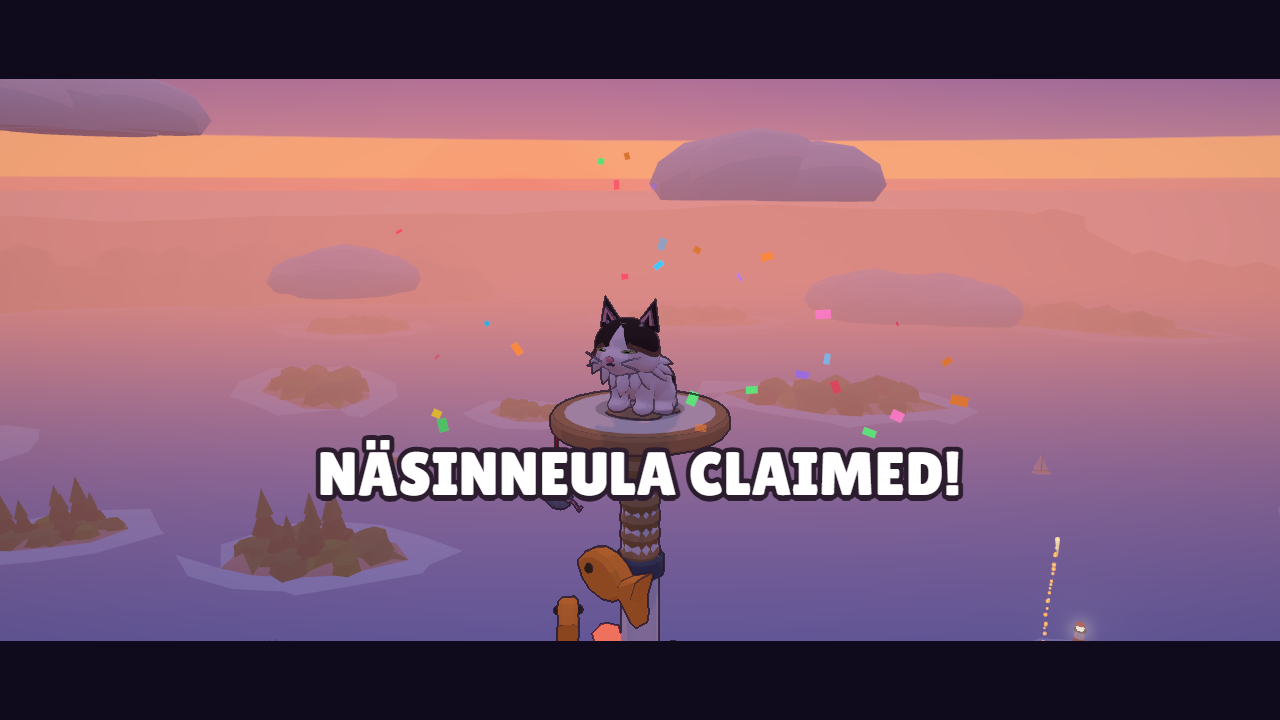
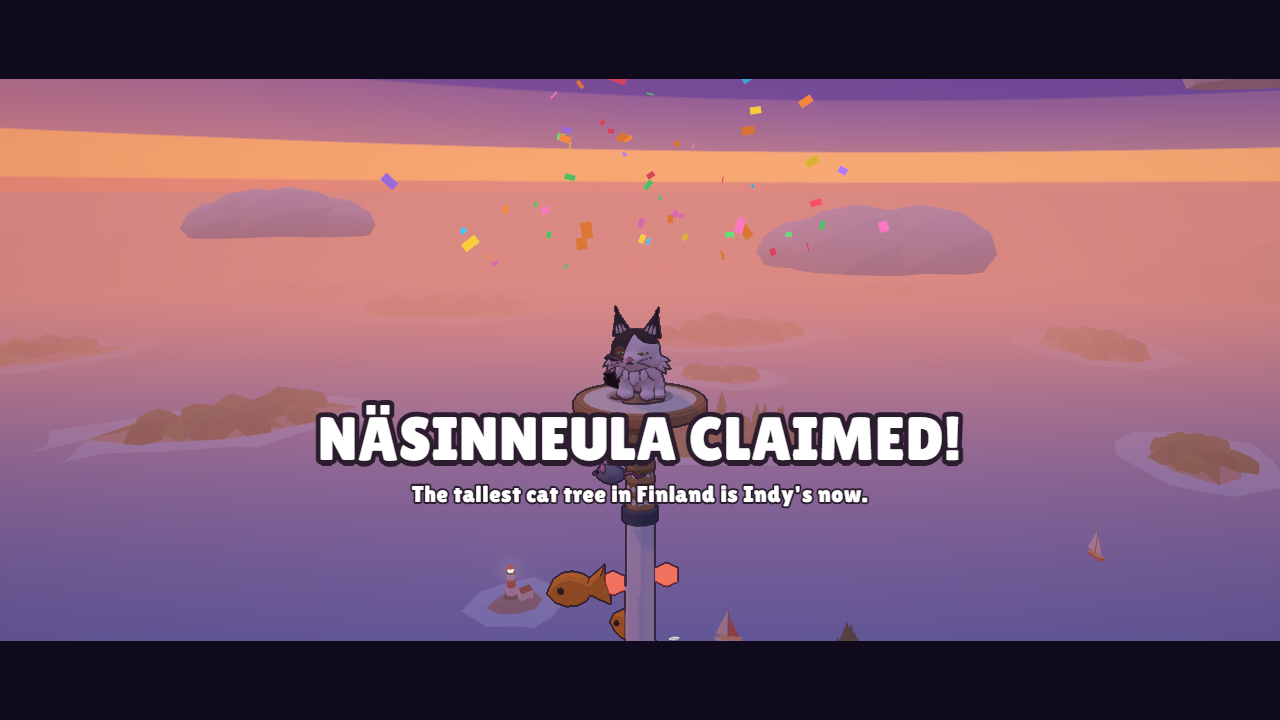
Retake the README screenshots with Indy's new model
Add tools/screenshots.mjs, which retakes every shot in screenshots/: the
title screen, then the bot climbs the stage and each shot is taken at a
set moment. HUD toasts and section banners are cleared first, and the
script waits for particles to fade, since the bot plays faster than real time.

diff --git a/CLAUDE.md b/CLAUDE.md
@@ -46,7 +46,7 @@ blender/*.py            one script per GLB: indy, tower, kit_rides, kit_festival
 blender/ASSETS.md       the spec of every model (names, sizes, origins) that the game code relies on
 public/assets/*.glb     exported models
 tools/                  dev sandboxes (audio.html, ui.html, fx.html), montage.mjs (contact sheets of images),
-                        record.mjs (renders a playthrough video with audio)
+                        record.mjs (renders a playthrough video with audio), screenshots.mjs (the README screenshots)
 tests/                  run.mjs + bot.js + route.js (the playthrough), touch-check.mjs, and the subagents' checks
 ```
 
@@ -104,6 +104,8 @@ tests/                  run.mjs + bot.js + route.js (the playthrough), touch-che
 - `node tools/record.mjs` renders a showcase video (title, the bot's climb, claim, results) with the game's audio to
   `tests/out/video/indy-playthrough.mp4`, offline and frame by frame on Playwright's fake clock (needs ffmpeg on PATH).
   `--only=name`, `--max=seconds`, `--fps=30`, `--size=1280x720`. Its header explains how it works.
+- `node tools/screenshots.mjs` retakes the README screenshots in `screenshots/` (the bot climbs and a shot is taken at
+  set moments; `--only=wheel,claim`, `--out=dir`). Rerun it after changing how Indy or the stage looks.
 - `window.indy` (src/debug.js): `start()`, `manual(true)` + `step(n, input)`, `tp(a, r, y)`, `cp(i)`, `god(true)`, `info()`.
 - The Playwright MCP browser is good for looking at the game: load the dev server, call `indy.start()`, teleport with
   `indy.cp(i)`, take screenshots. `node tools/montage.mjs out.png <cols> a.png b.png …` tiles screenshots into one image.
